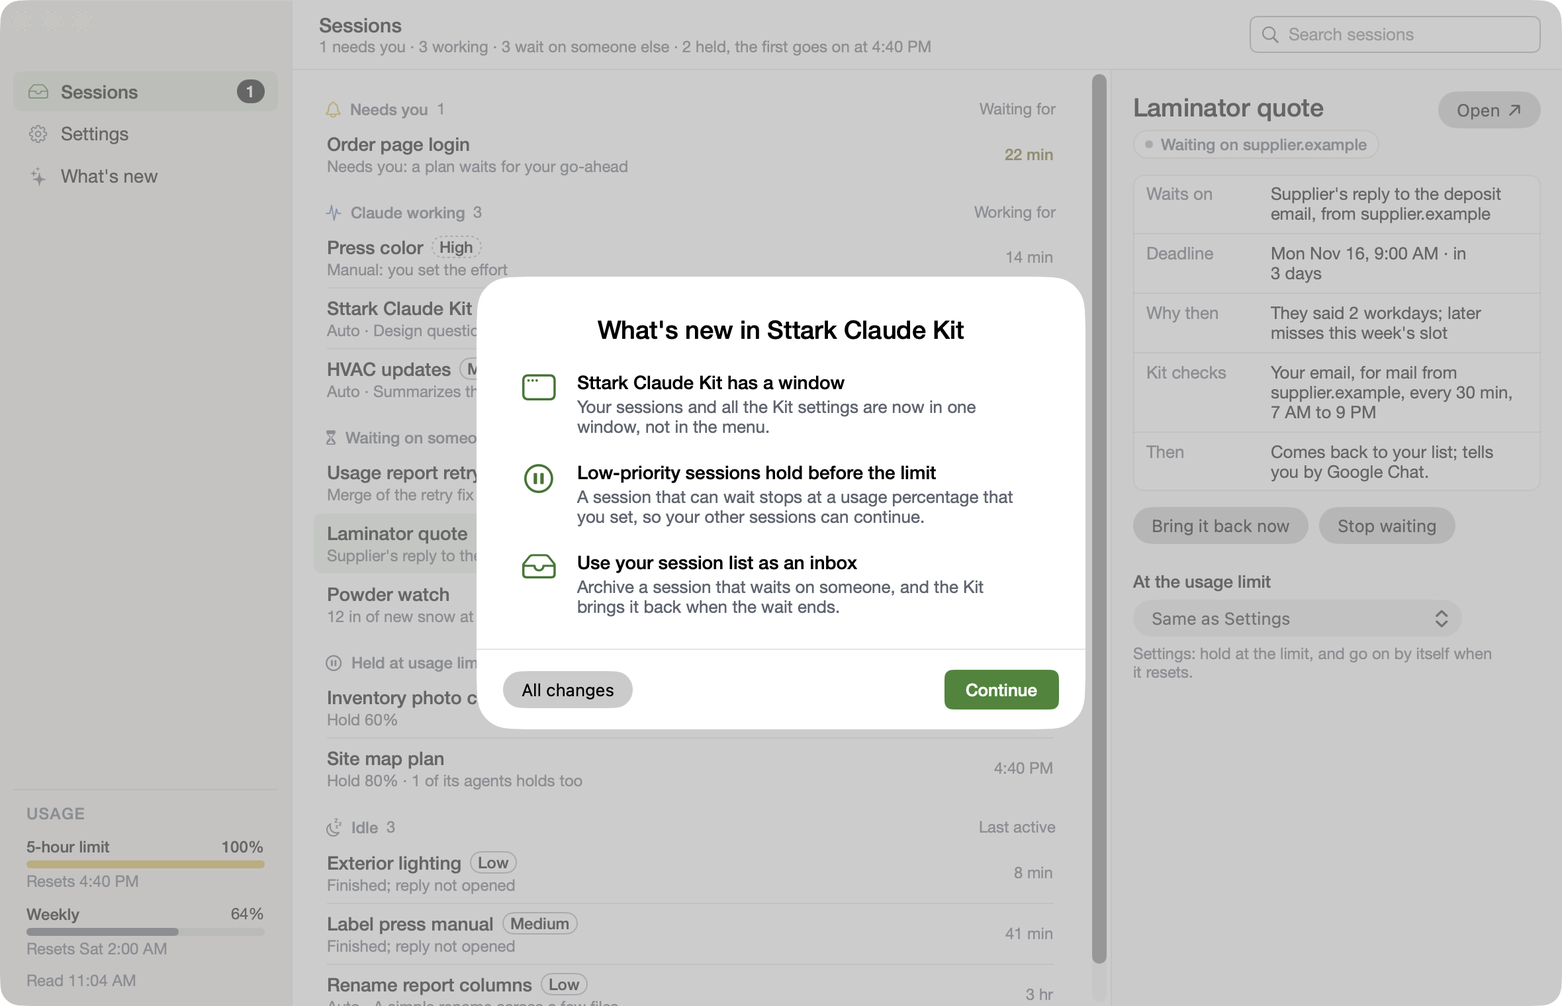
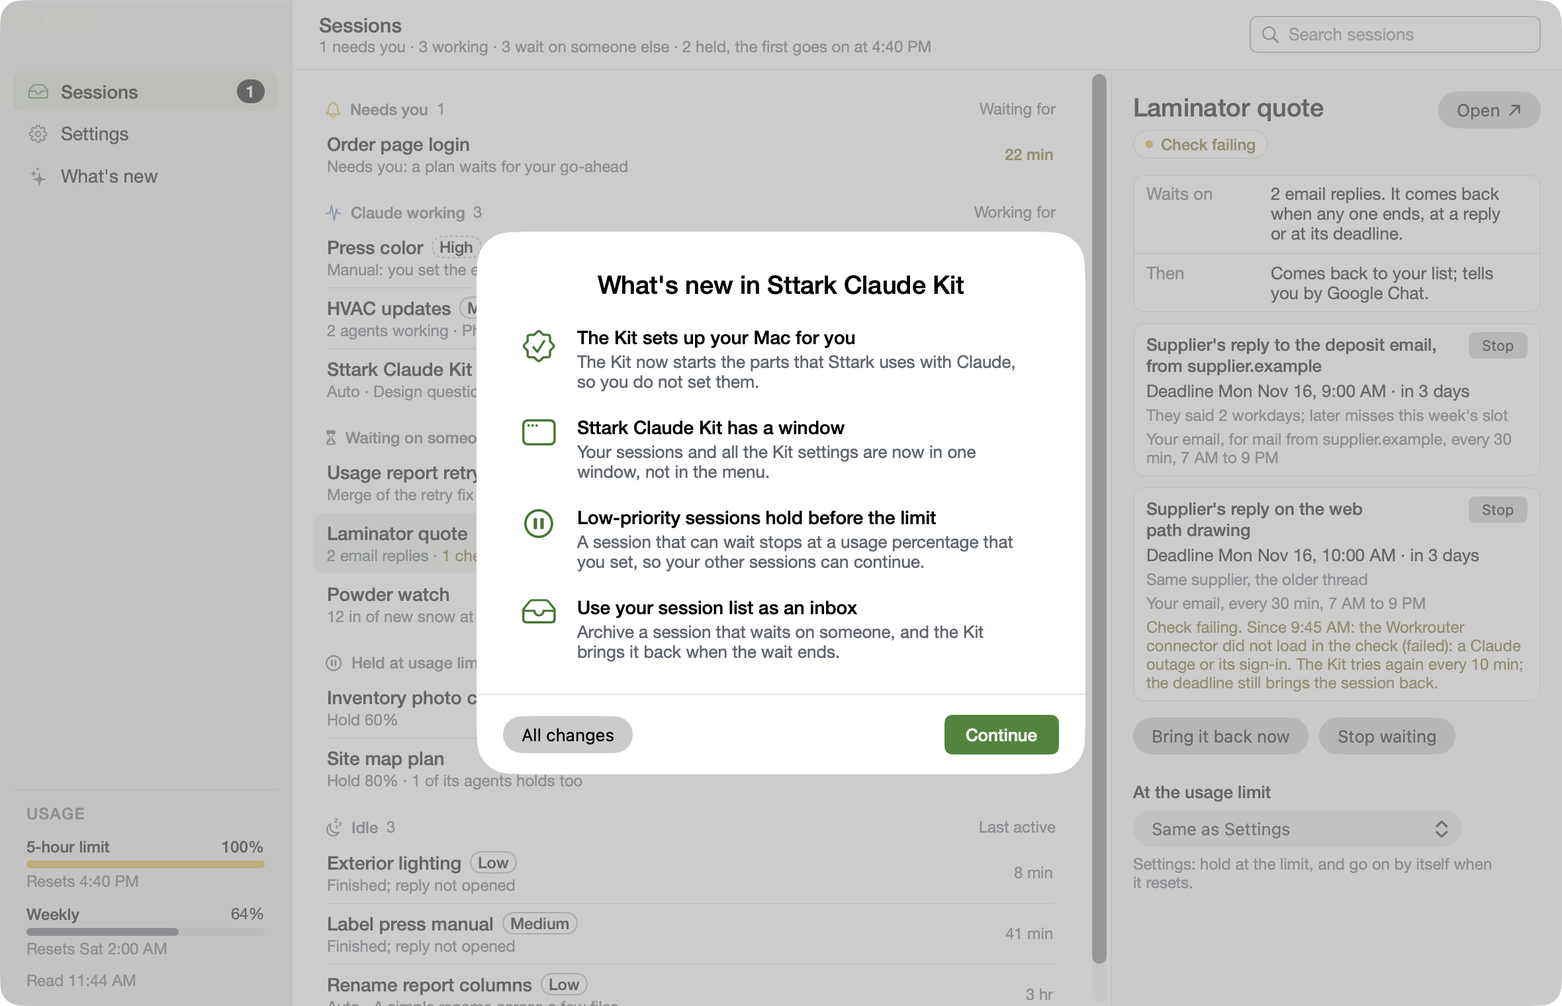
Kit turns on session names, links to files, profile sync and phone notices by itself
Each comes on unless the person turned it off by hand (recorded in turnedOff); a switch
that was off before counts as never chosen, so it comes on once with one Mac notice.
Claude Code's inputNeededNotifEnabled and agentPushNotifEnabled are set only when missing.

diff --git a/Sources/Defaults.swift b/Sources/Defaults.swift
@@ -1,0 +1,74 @@
+import AppKit
+
+/// The Kit sets every Mac up the way Sttark works with Claude. Each switch here is on unless the person turned it
+/// off: on every launch, one that is off and was never turned off by hand comes on. Turning one off in Settings or
+/// the menu records that ("turnedOff" in the app's settings), and the Kit never turns it back on; turning it on
+/// again clears the record. A switch that was off before this came in counts as never chosen, so people who had
+/// it off get it once, with one notice that says what came on and where to turn it off.
+///
+/// Claude Code's own phone notice settings (install-hooks.py --defaults) need no record: a value the person set,
+/// true or false, is never changed; only a missing one is set.
+enum KitDefaults {
+    static let offKey = "turnedOff"
+    static var test: Bool { ProcessInfo.processInfo.environment["STTARK_CLAUDE_KIT_TEST"] != nil }
+
+    /// The switches the Kit turns on, with the names Settings shows.
+    static let names = ["names": "Name sessions automatically", "profile": "Sync Claude profile instructions",
+                        "fileLinks": "Links to files"]
+
+    static func turnedOff(_ id: String) -> Bool {
+        (UserDefaults.standard.stringArray(forKey: offKey) ?? []).contains(id)
+    }
+
+    /// Called by each switch: off records the person's choice; on clears it.
+    static func chose(_ id: String, on: Bool) {
+        var ids = (UserDefaults.standard.stringArray(forKey: offKey) ?? []).filter { $0 != id }
+        if !on { ids.append(id) }
+        UserDefaults.standard.set(ids, forKey: offKey)
+        note("\(id) \(on ? "on" : "off") by you\(on ? "" : ": the Kit leaves it off")")
+    }
+
+    /// What should come on now: off, and never turned off by hand. The sync also needs the Claude app's sign-in.
+    static func due(on: [String: Bool], claudeAppSignedIn: Bool) -> [String] {
+        ["names", "profile", "fileLinks"].filter { id in
+            on[id] == false && !turnedOff(id) && (id != "profile" || claudeAppSignedIn)
+        }
+    }
+
+    /// On launch, after the hooks are installed. Shows one notice when anything came on.
+    static func apply() {
+        var came: [String] = []
+        let push = Updater.run("/usr/bin/python3", [Bypass.installer, "--defaults"]).1
+            .trimmingCharacters(in: .whitespacesAndNewlines)
+        if push != "unchanged" && !push.isEmpty {
+            note("defaults: \(push)")
+            came.append("Phone notices from Claude Code")
+        }
+        let ids = due(on: ["names": Names.on, "profile": ProfileSync.on, "fileLinks": FileLinks.on],
+                      claudeAppSignedIn: ProfileSync.claudeAppSignedIn)
+        for id in ids where id != "profile" {
+            if test { note("defaults: would turn on \(id) (test)"); continue }
+            if id == "names" { Names.set(true) }
+            if id == "fileLinks" { FileLinks.set(true) }
+            came.append(names[id]!)
+        }
+        guard ids.contains("profile"), !test else {
+            if ids.contains("profile") { note("defaults: would turn on profile (test)") }
+            tell(came)
+            return
+        }
+        ProfileSync.start { err in
+            if let err { note("defaults: profile sync didn't start, tries again at the next launch: \(err)") }
+            else { came.append(names["profile"]!) }
+            tell(came)
+        }
+    }
+
+    static func tell(_ came: [String]) {
+        guard !came.isEmpty else { return }
+        note("defaults: turned on " + came.joined(separator: ", "))
+        if test { return }
+        Updater.post("defaults", "Sttark Claude Kit set up how Sttark works with Claude",
+                     "On now: \(came.joined(separator: ", ")). To turn one off, open Sttark Claude Kit > Settings. Click to open it.")
+    }
+}

diff --git a/tools/defaults-test.swift b/tools/defaults-test.swift
@@ -1,0 +1,46 @@
+// Tests the Kit's defaults (Sources/Defaults.swift) and install-hooks.py --defaults on copies: a temp home folder and
+// this test's own settings domain, never the real ones. Which switches come on, that one turned off by hand stays
+// off, that turning it on again clears that, that the sync waits for the Claude app's sign-in, and that Claude Code's
+// phone notice keys are set only when missing.
+// Run from the repo root:
+//   swiftc -parse-as-library -o /tmp/defaults-test tools/defaults-test.swift $(ls Sources/*.swift | grep -v main.swift) && /tmp/defaults-test
+import Foundation
+
+@main struct DefaultsTest {
+    static func main() {
+        let dir = FileManager.default.temporaryDirectory.appendingPathComponent("kit-defaultstest-\(getpid())")
+        try? FileManager.default.createDirectory(at: dir.appendingPathComponent(".claude"), withIntermediateDirectories: true)
+        setenv("STTARK_KIT_DIR", dir.path, 1)
+        setenv("STTARK_KIT_LOG", dir.appendingPathComponent("log").path, 1)
+        UserDefaults.standard.removeObject(forKey: KitDefaults.offKey)
+        var fails = 0
+        func check(_ name: String, _ ok: Bool) { print((ok ? "ok   " : "FAIL ") + name); if !ok { fails += 1 } }
+        let allOff = ["names": false, "profile": false, "fileLinks": false]
+        check("new Mac: all three come on", KitDefaults.due(on: allOff, claudeAppSignedIn: true) == ["names", "profile", "fileLinks"])
+        check("no Claude app sign-in: the sync waits", KitDefaults.due(on: allOff, claudeAppSignedIn: false) == ["names", "fileLinks"])
+        check("already on: nothing to do", KitDefaults.due(on: ["names": true, "profile": true, "fileLinks": true], claudeAppSignedIn: true).isEmpty)
+        KitDefaults.chose("names", on: false)
+        check("turned off by hand: stays off", !KitDefaults.due(on: allOff, claudeAppSignedIn: true).contains("names"))
+        KitDefaults.chose("names", on: true)
+        check("turned on again: the record is gone", !KitDefaults.turnedOff("names"))
+        UserDefaults.standard.removeObject(forKey: KitDefaults.offKey)
+
+        let settings = dir.appendingPathComponent(".claude/settings.json")
+        try! #"{"agentPushNotifEnabled": false}"#.write(to: settings, atomically: true, encoding: .utf8)
+        func defaults() -> String {
+            let p = Process(); let out = Pipe()
+            p.executableURL = URL(fileURLWithPath: "/usr/bin/python3")
+            p.arguments = ["Resources/hooks/install-hooks.py", "--defaults"]
+            var env = ProcessInfo.processInfo.environment; env["HOME"] = dir.path; p.environment = env
+            p.standardOutput = out; try! p.run(); p.waitUntilExit()
+            return String(data: out.fileHandleForReading.readDataToEndOfFile(), encoding: .utf8)!.trimmingCharacters(in: .whitespacesAndNewlines)
+        }
+        check("missing phone notice key is set", defaults() == "set inputNeededNotifEnabled")
+        let d = try! JSONSerialization.jsonObject(with: Data(contentsOf: settings)) as! [String: Any]
+        check("a false the person set stays false", d["agentPushNotifEnabled"] as? Bool == false && d["inputNeededNotifEnabled"] as? Bool == true)
+        check("second run: unchanged", defaults() == "unchanged")
+        try? FileManager.default.removeItem(at: dir)
+        print(fails == 0 ? "all passed" : "\(fails) failed")
+        exit(fails == 0 ? 0 : 1)
+    }
+}

diff --git a/Sources/Menu.swift b/Sources/Menu.swift
@@ -93,6 +93,11 @@ final class Controller: NSObject, NSMenuDelegate {
         if ChromeWindow.on { ChromeWindow.installTool() }
         ChromeWindow.tellHooks()
         FileLinks.refresh()
+        KitDefaults.apply()
+        NotificationCenter.default.addObserver(forName: .init("kitOpenSettings"), object: nil, queue: .main) { [weak self] _ in
+            guard let self else { return }
+            KitWindow.shared.show(.settings, controller: self)
+        }
         Stable.keep(Server.installed)
         let menu = NSMenu()
         menu.delegate = self
@@ -306,12 +311,12 @@ final class Controller: NSObject, NSMenuDelegate {
     @objc func toggleChromeWindow() { ChromeWindow.set(!ChromeWindow.on) }
     @objc func openChromeWindow() { ChromeWindow.open() }
 
-    @objc func toggleFileLinks() { FileLinks.set(!FileLinks.on) }
-    @objc func toggleNames() { Names.set(!Names.on) }
+    @objc func toggleFileLinks() { let on = !FileLinks.on; FileLinks.set(on); KitDefaults.chose("fileLinks", on: on) }
+    @objc func toggleNames() { let on = !Names.on; Names.set(on); KitDefaults.chose("names", on: on) }
     @objc func toggleWorkingRules() { WorkingRules.set(!WorkingRules.on) }
 
     @objc func toggleProfile() {
-        if ProfileSync.on { ProfileSync.stop(); return }
+        if ProfileSync.on { ProfileSync.stop(); KitDefaults.chose("profile", on: false); return }
         guard ProfileSync.claudeAppSignedIn else {
             let a = NSAlert()
             a.messageText = "Needs the Claude app"
@@ -321,7 +326,7 @@ final class Controller: NSObject, NSMenuDelegate {
             return
         }
         ProfileSync.start { err in
-            guard let err else { return }
+            guard let err else { KitDefaults.chose("profile", on: true); return }
             let a = NSAlert()
             a.messageText = "Couldn't turn on the sync"
             a.informativeText = err

diff --git a/Sources/Update.swift b/Sources/Update.swift
@@ -107,7 +107,7 @@ final class Updater: NSObject, UNUserNotificationCenterDelegate {
         let url = response.notification.request.content.userInfo["url"] as? String ?? ""
         let sid = response.notification.request.content.userInfo["id"] as? String ?? ""
         DispatchQueue.main.async {
-            if id.hasPrefix("login") { Login.signIn() } else if id.hasPrefix("waiting") || id.hasPrefix("notify") { Waiting.open(url, id: sid) } else { self.install() }
+            if id.hasPrefix("login") { Login.signIn() } else if id.hasPrefix("defaults") { NotificationCenter.default.post(name: .init("kitOpenSettings"), object: nil) } else if id.hasPrefix("waiting") || id.hasPrefix("notify") { Waiting.open(url, id: sid) } else { self.install() }
         }
         done()
     }

diff --git a/Resources/hooks/install-hooks.py b/Resources/hooks/install-hooks.py
@@ -14,6 +14,9 @@ The usage limit hook (limit-hook.py) also goes in with the effort hook, with a s
 UserPromptSubmit entry (--hold, 8-day limit) for sessions that hold at their own percentage, and the claude-limit-wait and
 claude-limit-mode links in ~/.local/bin; the menu's "Use credits at the usage limit" switch and each
 session's own setting are settings it reads, not hook changes.
+--defaults turns on Claude Code's phone notices (inputNeededNotifEnabled: a notice when Claude waits on you;
+agentPushNotifEnabled: Claude may send one, which claude-notify's "Claude app" way needs) when the key is missing;
+a value the person set, true or false, is never changed.
 --status prints which are on. Other settings and hooks are left as they are, and a backup is saved
 before any change.
 """
@@ -153,6 +156,9 @@ def set_links(on):
             pass
 
 
+PUSH_KEYS = ('inputNeededNotifEnabled', 'agentPushNotifEnabled')
+
+
 def ours(cmd):
     return cmd.rstrip('"').endswith('effort-hook.py')
 
@@ -220,6 +226,12 @@ def main():
                           'limit': has(s, 'PreToolUse', is_limit)}))
         return
     remove = '--remove' in sys.argv
+    before = json.dumps(s, sort_keys=True)
+    if '--defaults' in sys.argv:
+        added = [k for k in PUSH_KEYS if k not in s]
+        for k in added:
+            s[k] = True
+        return save(s, before, 'set ' + ', '.join(added) if added else 'unchanged')
     before = json.dumps(s, sort_keys=True)
     hooks = s.setdefault('hooks', {})
     if '--bypass' in sys.argv:

diff --git a/README.md b/README.md
@@ -20,7 +20,7 @@ A Mac menu bar app that makes Claude Code easier to live with, for people who ke
 | Puts Sttark's working rules in front of every prompt, and checks each reply for Simplified Technical English | [Sttark working rules](#sttark-working-rules) |
 | Gives sessions in Sttark's app repos the Sttark app rules | [Sttark app rules](#sttark-app-rules) |
 
-Effort, Waiting on you, the wait at the usage limit, the login warnings, the Claude window in Chrome, the Sttark working rules and the Sttark app rules are on from the start. Everything else is off until you turn it on in the Kit's Settings. It updates itself when a new version is released here.
+The Kit sets your Mac up the way Sttark works with Claude: most of it is on from the start (see [What the Kit turns on](#what-the-kit-turns-on)), and you can turn each part off in the Kit's Settings. It updates itself when a new version is released here.
 
 ![The Sttark Claude Kit window: the sessions in groups (Needs you, Claude working, Waiting on someone else, Held at usage limit), one selected with what it waits on and its settings, and the 5-hour and weekly usage](docs/window-sessions.png)
 
@@ -37,6 +37,23 @@ You need a Mac on macOS 14 or later, with [Claude Code](https://code.claude.com/
 3. The first time, macOS says it can't check the app for malicious software, because it isn't sold through Apple. Click **Done**, go to **System Settings > Privacy & Security**, scroll down and click **Open Anyway**. You only do this once.
 
 That's it. The app adds its hooks to Claude Code's settings (`~/.claude/settings.json`, backed up first), starts by itself when you log in, and shows a gauge in the menu bar. The needle points at the level of the session you used last: far left for Low, straight up for High, far right for Max. No needle means no session in the last hour. A pause sign means Auto effort is off. New sessions use the hook right away. Sessions that were already open pick it up from their next prompt.
+
+### What the Kit turns on
+
+The Kit is made to set up every Mac the way Sttark works with Claude. You do not set anything to start.
+
+| Part | When it comes on |
+|---|---|
+| Effort, Waiting on you, the wait at the usage limit, the login warnings, the Claude window in Chrome, the Sttark working rules and the Sttark app rules | At the first start |
+| **Name sessions automatically** and **Links to files** | At the first start |
+| **Sync Claude profile instructions** | At the first start after the Claude desktop app is signed in |
+| Claude Code's phone notices: a notice when Claude waits on you (`inputNeededNotifEnabled`), and notices Claude sends, which **Reach me by**'s Claude app way needs (`agentPushNotifEnabled`) | At the first start, only when `~/.claude/settings.json` does not have the key yet |
+
+- **Turn a part off** in **Settings**. The Kit records that you turned it off and never turns it on again. Turn it on again to clear the record.
+- **Phone notices** are Claude Code's own settings. A value that you set yourself, `true` or `false`, is never changed.
+- **After an update:** a switch that was off before this came in counts as never chosen, so it comes on once. One Mac notice tells you which parts came on. Click it to open **Settings**.
+- **Off until you turn it on:** **Bypass permissions for server sessions**, **Approve Claude in Chrome** and **Use credits at the usage limit**, because each one lets Claude do more without asking you, or spends money.
+- The record of the switches you turned off is `turnedOff` in the app's settings (`defaults read com.sttark.sttark-claude-kit turnedOff`). Each part that comes on is logged, with lines starting `defaults`.
 
 ### Coming from Sttark Effort
 
@@ -121,12 +138,12 @@ The 5-hour and weekly usage show at the bottom of the sidebar, with when each re
 | **Reach me by** | How a session tells you that something it waited on happened. Check the ways you want; **Set…** or **Change…** for the address, phone number or webhook a way needs; **Send a test**. See [below](#reach-me-by). |
 | **Start sessions from the Claude app** | Sets this Mac up so you can start Claude Code sessions from the Claude app. Shows the folder sessions start in. See [below](#start-sessions-from-the-claude-app). |
 | **Bypass permissions for server sessions** | See [below](#bypass-permissions-for-server-sessions). Off until you turn it on. |
-| **Name sessions automatically** | See [below](#name-sessions-automatically). Off until you turn it on. |
+| **Name sessions automatically** | See [below](#name-sessions-automatically). On until you turn it off. |
 | **Sttark working rules** | See [below](#sttark-working-rules). On until you turn it off. |
-| **Sync Claude profile instructions** | See [below](#sync-claude-profile-instructions). Off until you turn it on. Shows the last sync. |
+| **Sync Claude profile instructions** | See [below](#sync-claude-profile-instructions). On until you turn it off, once the Claude app is signed in. Shows the last sync. |
 | **Claude window in Chrome** | See [below](#claude-window-in-chrome). On until you turn it off. **Open Claude window** shows beside it while Chrome runs and the Claude window is closed. |
 | **Approve Claude in Chrome** | See [below](#approve-claude-in-chrome). Off until you turn it on. **Open Accessibility…** shows beside it while macOS hasn't allowed it to click. |
-| **Links to files** | See [below](#links-to-files). Off until you turn it on. |
+| **Links to files** | See [below](#links-to-files). On until you turn it off. |
 | **Sttark Claude Kit 1.…** | The version you have and when it last checked; **Check for updates** checks now and installs a new version at once, or **Update to …** when one waits. |
 | **Claude Code login** | When your login ends; **Sign in…** opens Terminal and starts Claude Code's sign-in. See [below](#claude-code-login). |
 | **Log** | **Open log** opens the full log in Console. |
@@ -345,10 +362,10 @@ The first time you turn it on, macOS asks you to allow **SttarkChromeApprover** 
 
 ## Sync Claude profile instructions
 
-The Claude app has a box for instructions to Claude in **Settings > Profile**. Claude in the app follows them, but Claude Code never sees them. With this switch on, Sttark Claude Kit copies them into Claude Code's own instructions file (`~/.claude/CLAUDE.md`, in a marked block it keeps up to date) every 15 minutes. It also puts them in front of every prompt you send, because Claude Code reads that file only when a session starts, so a session that's already running would otherwise miss an edit.
+The Claude app has a box for instructions to Claude in **Settings > Profile**. Claude in the app follows them, but Claude Code never sees them. With this switch on (it comes on by itself once the Claude app is signed in), Sttark Claude Kit copies them into Claude Code's own instructions file (`~/.claude/CLAUDE.md`, in a marked block it keeps up to date) every 15 minutes. It also puts them in front of every prompt you send, because Claude Code reads that file only when a session starts, so a session that's already running would otherwise miss an edit.
 
 - It needs the Claude desktop app installed and signed in. It reads your profile with that sign-in, and checks the account matches before writing anything.
-- The first time you turn it on, it installs two small Python add-ons it needs into the app's own folder. That takes a few seconds.
+- The first time it comes on, it installs two small Python add-ons it needs into the app's own folder. That takes a few seconds.
 - Hover the switch to see the last sync. Each sync is logged to `~/Library/Logs/claude-profile-sync.log`.
 - Edit your instructions in the Claude app, not in `CLAUDE.md`: the marked block is overwritten. Anything else in that file is left alone.
 
@@ -380,7 +397,7 @@ claude-window done                      close this session's tab
 
 Claude Code sessions save what they make (a picture, a page, a PDF) on the Mac and hand you its path, like `/private/tmp/claude-501/…/chart.svg`. You read the reply in the Claude app, often on your phone, where a path opens nothing.
 
-With this switch on, Sttark Claude Kit runs a small web server on the Mac (port 8732) and installs `claude-link`, a command that turns a file into a link:
+With this switch on (it is on from the start), Sttark Claude Kit runs a small web server on the Mac (port 8732) and installs `claude-link`, a command that turns a file into a link:
 
 ```
 claude-link ~/Desktop/chart.svg
@@ -394,7 +411,7 @@ http://Your-Mac.local:8732/k3J9xQ2mV7pL1aTz/chart.svg
 
 ## Name sessions automatically
 
-Claude names each new Claude Code session with a long description of the first task. With this switch on, sessions get a short handle for their project or area instead, like "Order Page" or "Label Printer", the way you'd label a folder.
+Claude names each new Claude Code session with a long description of the first task. With this switch on (it is on from the start), sessions get a short handle for their project or area instead, like "Order Page" or "Label Printer", the way you'd label a folder.
 
 - It names a session at your first message that shows what the session is about. A greeting or a bare "yes" waits for a later one.
 - It reuses one of your own handles when a session clearly belongs to that area, and learns your handles from the sessions you name yourself.
@@ -525,6 +542,7 @@ Every change to the app's code on `main` (`Sources`, `Resources`, `Helpers`, `In
 | File | What it is |
 |---|---|
 | `Sources/main.swift` | Starts the app. |
+| `Sources/Defaults.swift` | What the Kit turns on by itself, and the record of switches you turned off. |
 | `Sources/Menu.swift` | The menu bar gauge and the menu. |
 | `Sources/Window.swift` | The window: Sessions, Settings and What's new. |
 | `Sources/Inbox.swift` | The session inbox: each session in its group, for the window and the menu. |
@@ -567,6 +585,7 @@ Every change to the app's code on `main` (`Sources`, `Resources`, `Helpers`, `In
 | `tools/limit-429-test.py` | Tests the usage read's back-off against a local stand-in server that answers `429`. |
 | `tools/update-test.sh` | Tests the update that installs by itself: the real `Sources/Update.swift` in a stand-in app (`tools/update-test/main.swift`) with its own ID, against fake releases in a temporary folder. It checks that a new version waits while the menu is open, then installs and restarts with no notice; that a version not signed like the app fails with one notice, no dialog and no second try; and that the same version does nothing. The installed app isn't touched. |
 | `tools/screenshot.swift` | Draws the README's pictures with the app's own code, from sample sessions in a temporary folder: the menu (`docs/menu.png`), the window's pages (`docs/window-sessions.png`, `docs/window-settings.png`, `docs/window-news.png`) and the What's new popup (`docs/whats-new.png`). The window and the popup are real windows put off the screen and captured, so nothing shows on the screen. `STTARK_SHOT_DARK=<folder>` also draws them in dark mode. |
+| `tools/defaults-test.swift` | Tests what the Kit turns on by itself, on a temporary home folder and the test's own settings: which switches come on, that a switch turned off by hand stays off, that the sync waits for the Claude app's sign-in, and that Claude Code's phone notice keys are set only when missing. |
 | `tools/limit-menu-test.swift` | Tests the app's side of each session's usage setting on a temporary folder, with a stand-in state file and usage file: reading and writing the settings as the hooks do, the log lines, the holding rows, and when the limit counts as reached. |
 | `tools/make-icon.py` | Draws the app icon. The menu bar gauge is drawn in code to match it. |
 | `.github/workflows/release.yml` | Builds, signs and publishes a release. |

diff --git a/whats-new/kit-sets-up-your-mac.md b/whats-new/kit-sets-up-your-mac.md
@@ -1,0 +1,13 @@
+# The Kit sets up your Mac for you
+
+**Icon:** checkmark.seal
+
+**Kind:** Better
+
+The Kit now starts the parts that Sttark uses with Claude, so you do not set them.
+
+- Session names, links to files, the profile sync and phone notices start automatically.
+- A Mac notice tells you which parts started.
+- To turn a part off, open **Settings**; the Kit then keeps it off.
+
+![Four switches in Settings, all on: Name sessions automatically, Sync Claude profile instructions, Links to files and Phone notices from Claude Code.](kit-sets-up-your-mac.png)
